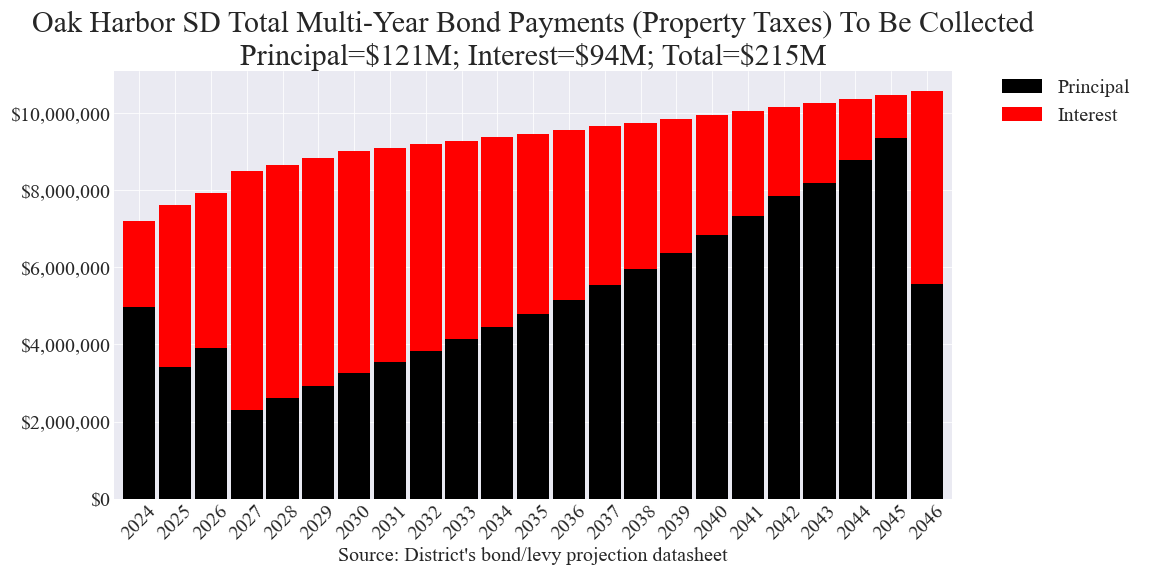
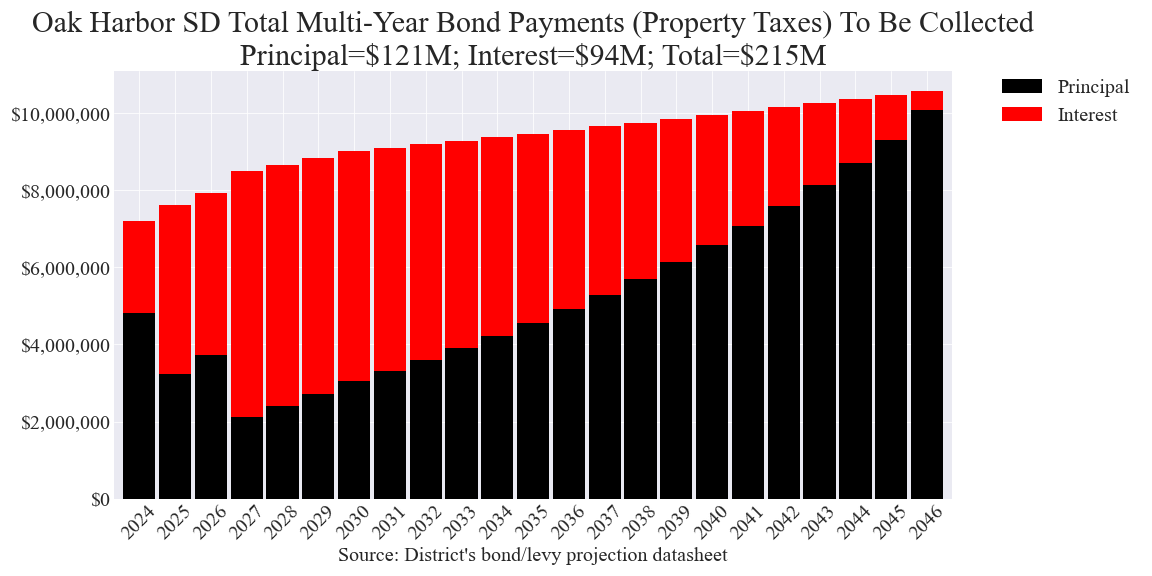
Updated Oak Harbor and Steilacoom

diff --git a/_includes/cost_estimates/20230214/OakHarbor_20230214_Enhanced.html b/_includes/cost_estimates/20230214/OakHarbor_20230214_Enhanced.html
@@ -27,8 +27,8 @@
 
 	// POF Annual Change Percent
 	pofAdjust = 0;
-	pofAdjustMin = -1.0;
-	pofAdjustMax = 1.0;
+	pofAdjustMin = -1.5;
+	pofAdjustMax = 1.5;
 
     function drawStuff() {
 		data = new google.visualization.DataTable();
@@ -37,29 +37,29 @@
 		data.addColumn('number', 'Interest + Fees');
 
 		data.addRows([
-			['2024', 4978750, 2219250],
-			['2025', 3410981, 4205019],
-			['2026', 3903255, 4015745],
-			['2027', 2309146, 6176854],
-			['2028', 2610654, 6046346],
-			['2029', 2929254, 5898746],
-			['2030', 3266872, 5733128],
-			['2031', 3538052, 5551948],
-			['2032', 3827263, 5355737],
-			['2033', 4130499, 5143501],
-			['2034', 4454542, 4914458],
-			['2035', 4792262, 4666738],
-			['2036', 5156380, 4399620],
-			['2037', 5537783, 4112217],
-			['2038', 5941790, 3805210],
-			['2039', 6372188, 3475812],
-			['2040', 6829839, 3115161],
-			['2041', 7316794, 2728206],
-			['2042', 7834357, 2313643],
-			['2043', 8192692, 2051308],
-			['2044', 8768861, 1580139],
-			['2045', 9339505, 1113495],
-			['2046', 5558536, 5000464],
+			['2024', 4813315.0, 2384685.0],
+			['2025', 3227936.9165, 4388063.0835],
+			['2026', 3717769.21626515, 4201230.78373485],
+			['2027', 2106149.67657402, 6379850.32342598],
+			['2028', 2400040.10907603, 6256959.89092397],
+			['2029', 2711092.04969586, 6116907.95030414],
+			['2030', 3041297.26537166, 5958702.73462834],
+			['2031', 3308524.85712399, 5781475.14287601],
+			['2032', 3594328.77681444, 5588671.22318556],
+			['2033', 3894806.59565649, 5379193.40434351],
+			['2034', 4216801.235135, 5152198.764865],
+			['2035', 4550849.85550373, 4908150.14449627],
+			['2036', 4909740.01822548, 4646259.98177452],
+			['2037', 5286300.89214037, 4363699.10785963],
+			['2038', 5691494.22088238, 4055505.77911763],
+			['2039', 6124318.10429874, 3723681.89570126],
+			['2040', 6578937.77604459, 3366062.22395541],
+			['2041', 7063125.61353561, 2981874.38646439],
+			['2042', 7578611.39060496, 2569388.60939504],
+			['2043', 8118149.32345881, 2125850.67654119],
+			['2044', 8694497.44142144, 1654502.55857856],
+			['2045', 9305224.18901919, 1147775.81098081],
+			['2046', 10066689.5058469, 492310.494153069],
 
 		]);
 

diff --git a/_includes/cost_estimates/20230214/Steilacoom_20230214_Enhanced.html b/_includes/cost_estimates/20230214/Steilacoom_20230214_Enhanced.html
@@ -27,8 +27,8 @@
 
 	// POF Annual Change Percent
 	pofAdjust = 0;
-	pofAdjustMin = -1.0;
-	pofAdjustMax = 1.0;
+	pofAdjustMin = -1.5;
+	pofAdjustMax = 1.5;
 
     function drawStuff() {
 		data = new google.visualization.DataTable();
@@ -37,27 +37,27 @@
 		data.addColumn('number', 'Interest + Fees');
 
 		data.addRows([
-			['2024', 3750800, 3010200],
-			['2025', 4149467, 2815533],
-			['2026', 1571424, 5633576],
-			['2027', 1860632, 5551368],
-			['2028', 2183446, 5454554],
-			['2029', 2526073, 5340927],
-			['2030', 2889542, 5209458],
-			['2031', 3283939, 5059061],
-			['2032', 3703875, 4888125],
-			['2033', 4154679, 4695321],
-			['2034', 4636959, 4479041],
-			['2035', 5154354, 4237646],
-			['2036', 5703694, 3969306],
-			['2037', 6288642, 3672358],
-			['2038', 6916054, 3344946],
-			['2039', 7584140, 2984860],
-			['2040', 8295018, 2589982],
-			['2041', 9051919, 2158081],
-			['2042', 10079455, 1468545],
-			['2043', 11280296, 611704],
-			['2044', 10936296, 1311704],
+			['2024', 3750800.0, 3010200.0],
+			['2025', 4149467.0, 2815533.0],
+			['2026', 1571424.0, 5633576.0],
+			['2027', 1860632.0, 5551368.0],
+			['2028', 2183446.0, 5454554.0],
+			['2029', 2526073.0, 5340927.0],
+			['2030', 2889542.0, 5209458.0],
+			['2031', 3283939.0, 5059061.0],
+			['2032', 3703875.0, 4888125.0],
+			['2033', 4154679.0, 4695321.0],
+			['2034', 4636959.0, 4479041.0],
+			['2035', 5154354.0, 4237646.0],
+			['2036', 5703694.0, 3969306.0],
+			['2037', 6288642.0, 3672358.0],
+			['2038', 6916054.0, 3344946.0],
+			['2039', 7584140.0, 2984860.0],
+			['2040', 8295018.0, 2589982.0],
+			['2041', 9001216.0, 2208784.0],
+			['2042', 10029455.0, 1518545.0],
+			['2043', 10980296.0, 911704.0],
+			['2044', 11336296.0, 911704.0],
 
 		]);
 
